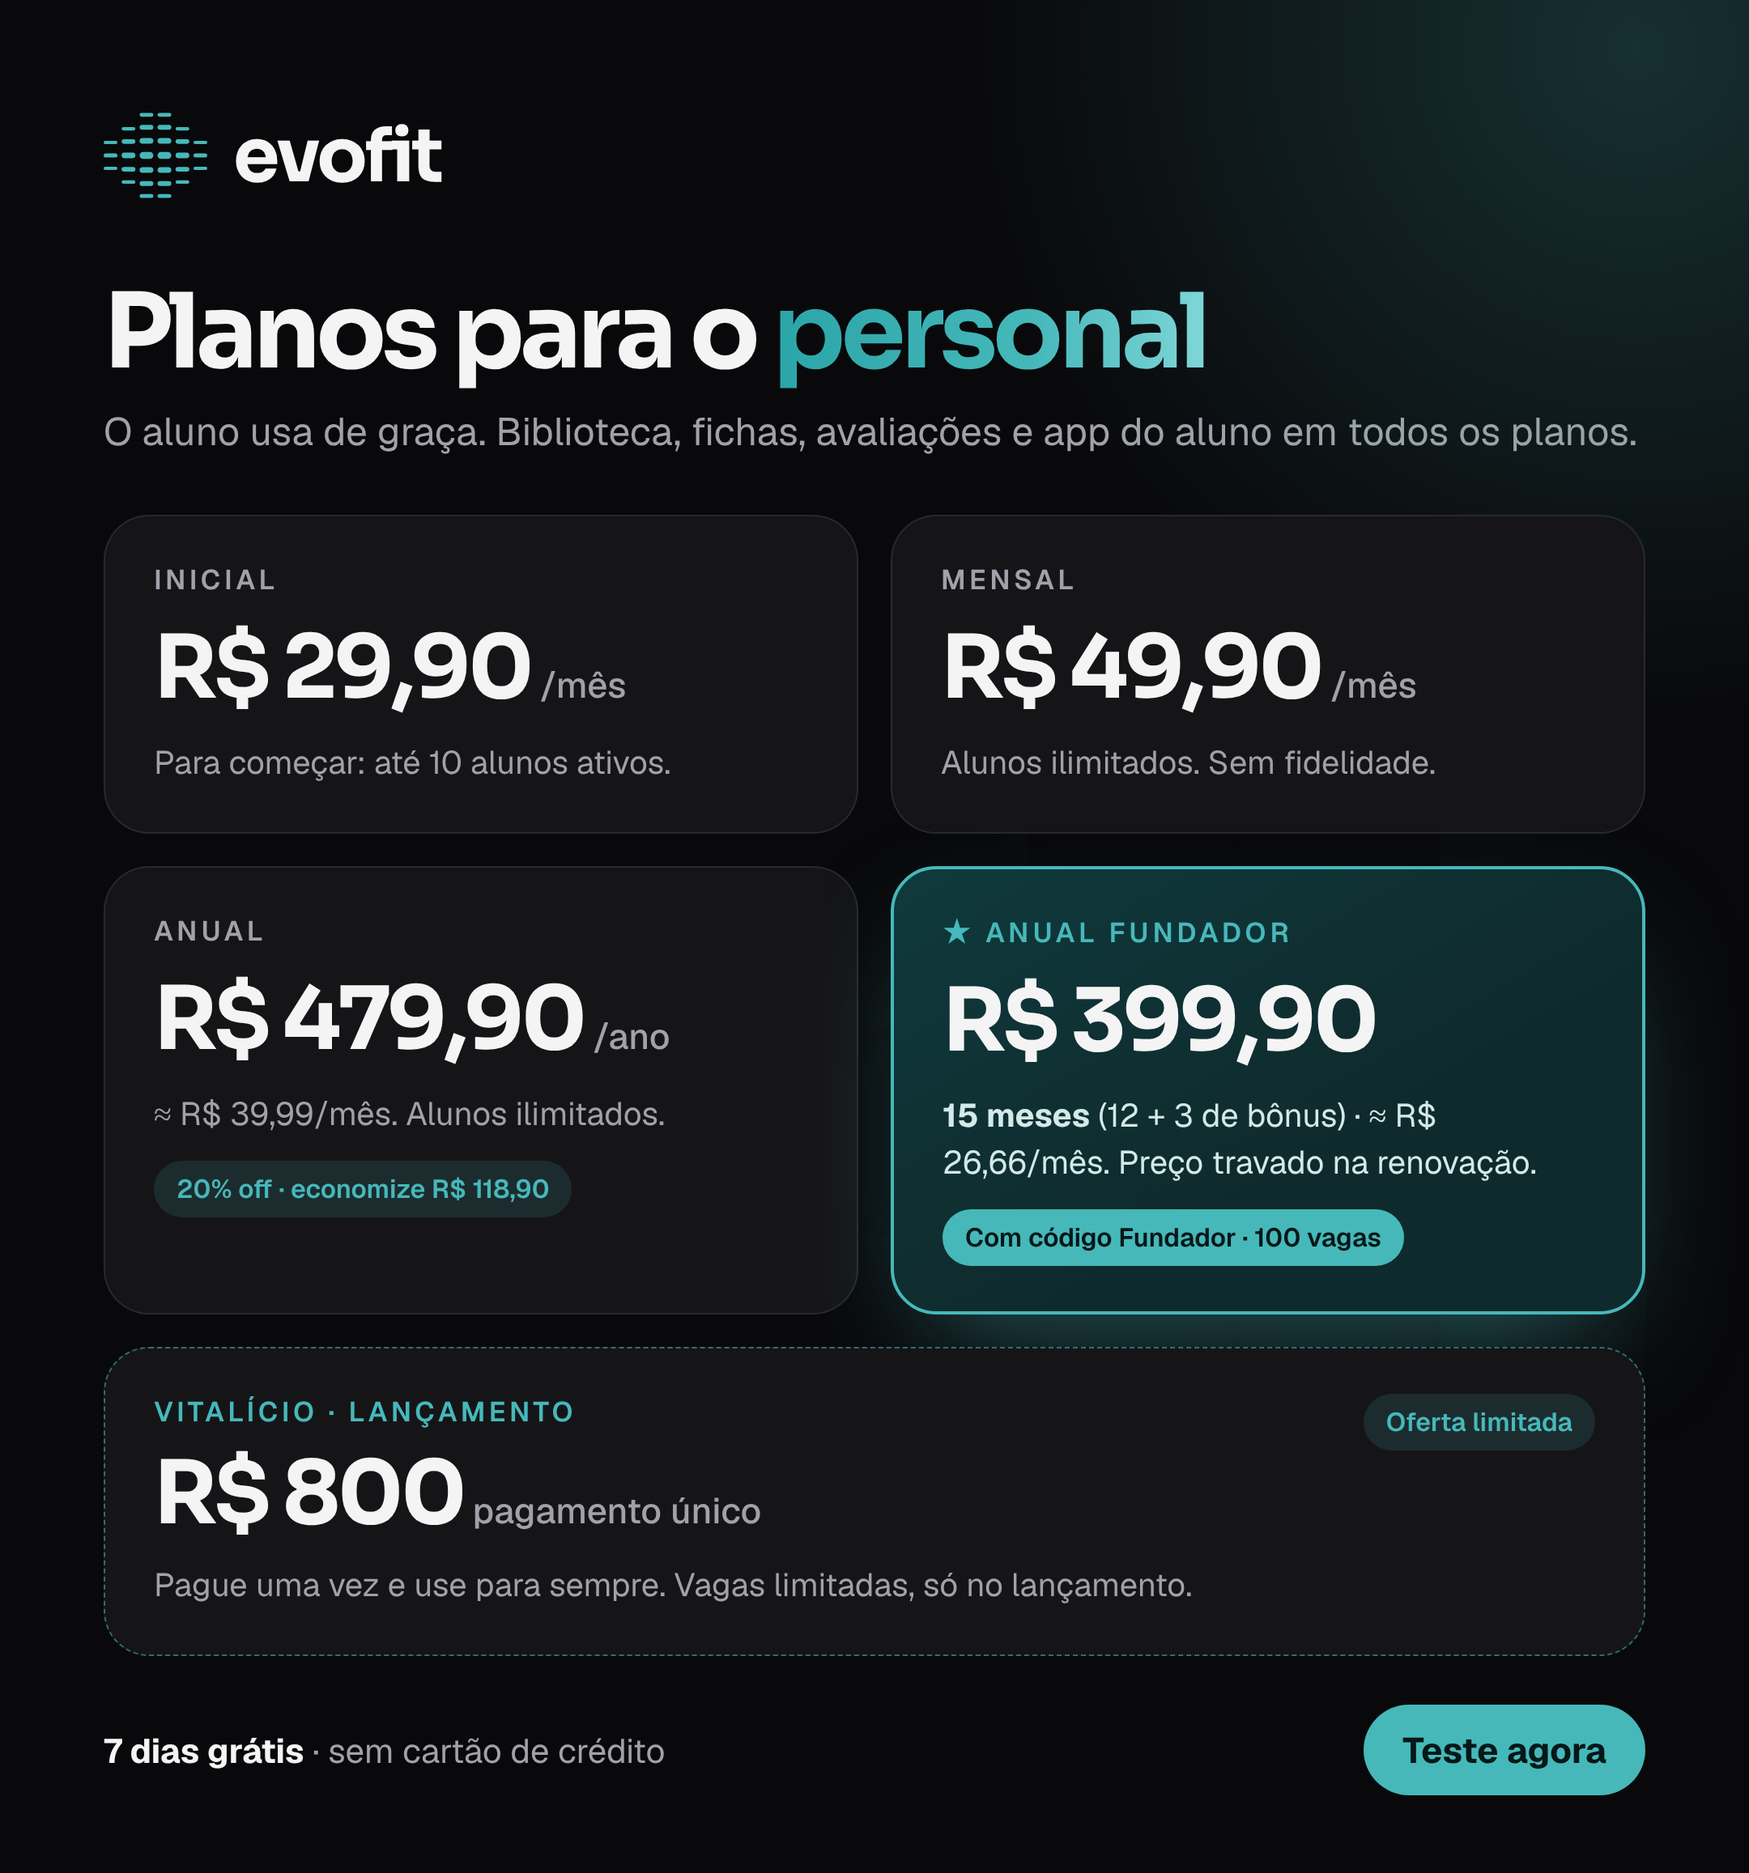
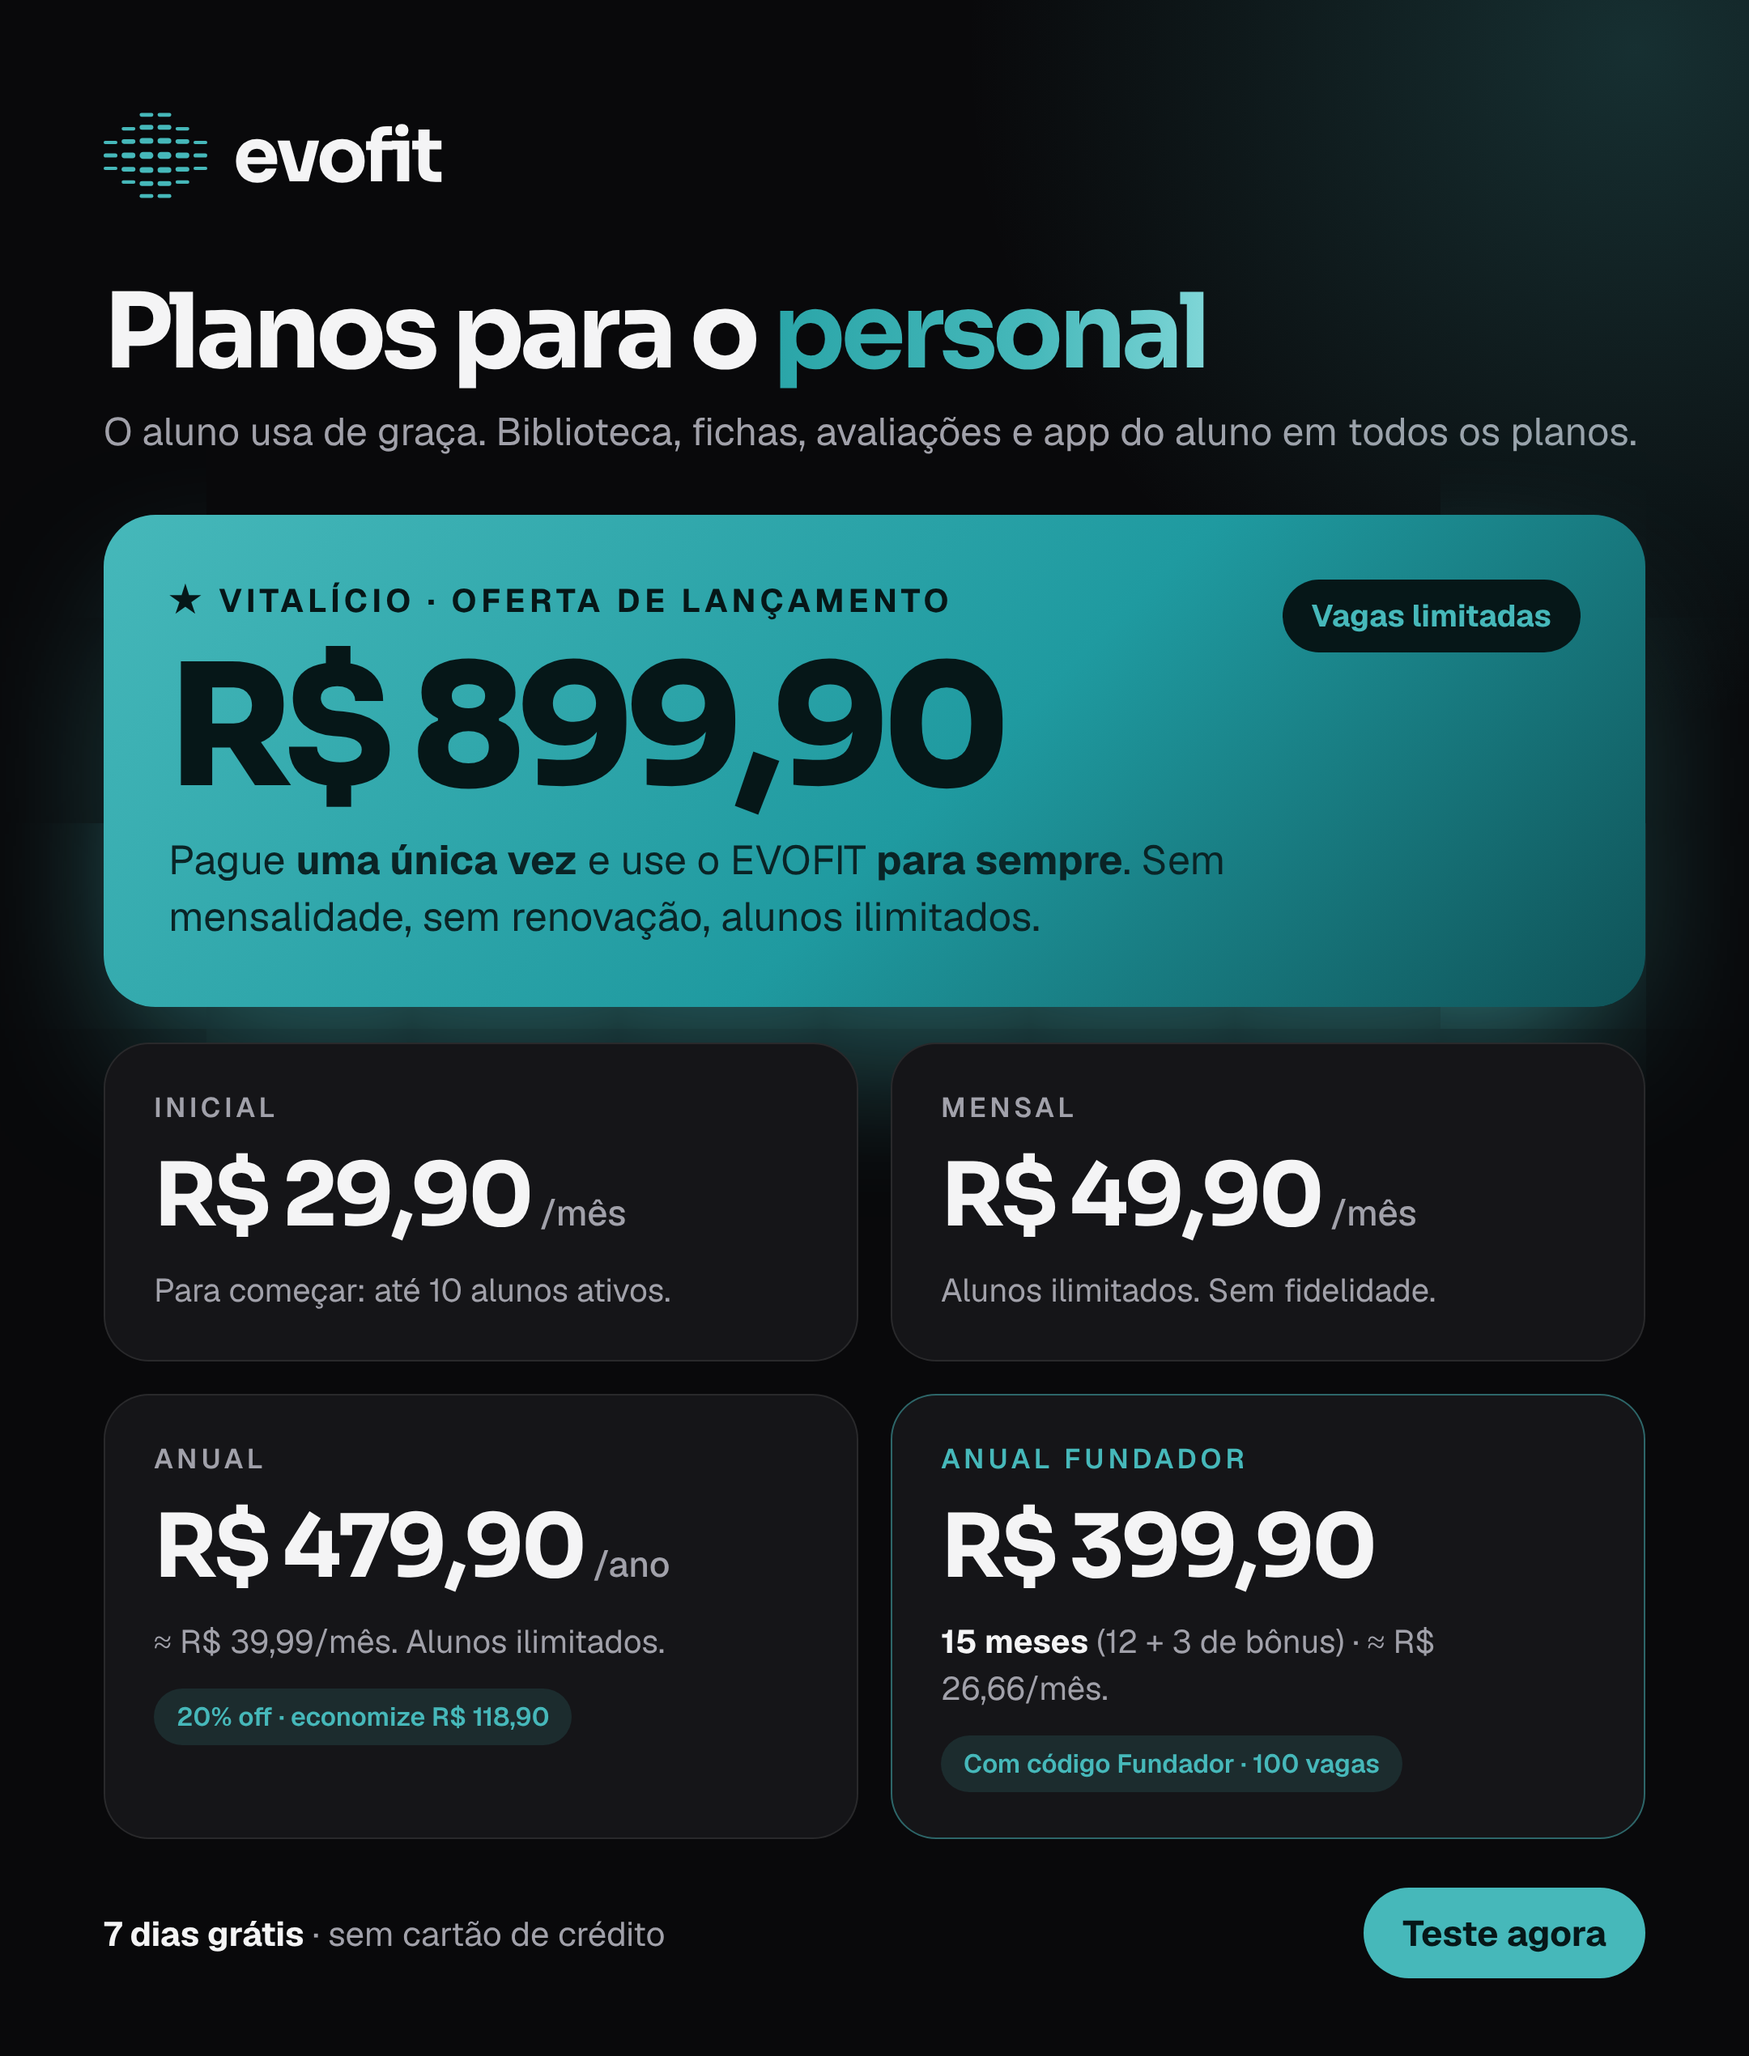
Planos: Vitalício a R$ 899,90 com destaque principal na tabela
Claude-Session: https://claude.ai/code/session_0182a5G2fh9kmQJWpz62oW2J

diff --git a/docs/PLANOS.md b/docs/PLANOS.md
@@ -10,7 +10,7 @@ Quem paga é o personal. O aluno usa o app de graça.
 | **Mensal** | R$ 49,90/mês | R$ 49,90 | — | ilimitados |
 | **Anual** | R$ 479,90/ano | ≈ R$ 39,99 | 20% (economia de R$ 118,90/ano) | ilimitados |
 | **Anual + código Fundador** | R$ 399,90 por 15 meses | ≈ R$ 26,66 | 47% | ilimitados |
-| **Vitalício (lançamento)** | R$ 800, pagamento único | — | — | ilimitados |
+| **Vitalício (lançamento, destaque principal)** | R$ 899,90, pagamento único | — | — | ilimitados |
 
 - Não há plano gratuito. A entrada é o **Inicial**.
 - O limite conta só **alunos ativos**: aluno arquivado não conta.
@@ -18,7 +18,7 @@ Quem paga é o personal. O aluno usa o app de graça.
 - Todos os planos incluem a biblioteca de exercícios, as fichas, o app do Aluno e as avaliações.
 
 ## Vitalício (lançamento)
-- Sugestão do professor: R$ 800 pagos uma vez, acesso para sempre.
+- R$ 899,90 pagos uma vez, acesso para sempre. É o destaque principal da tabela de preços.
 - Só no lançamento e com **vagas limitadas** (número a definir).
 - Serve para fazer caixa no início; depois a oferta fecha e fica só o modelo recorrente.
 
